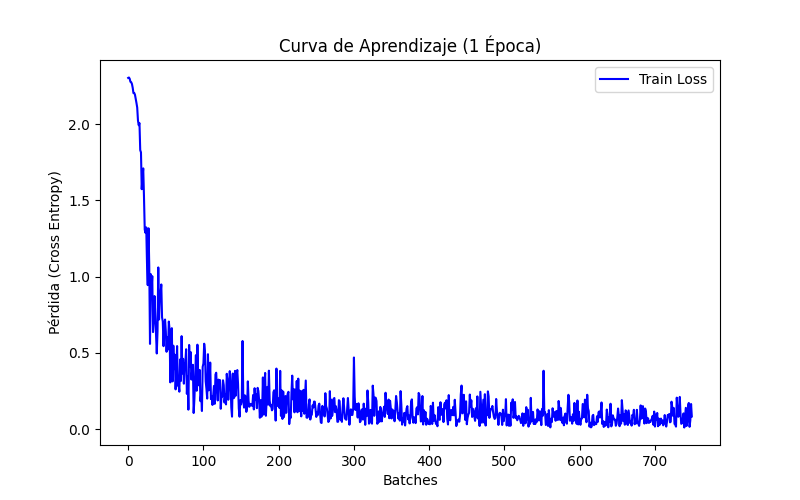
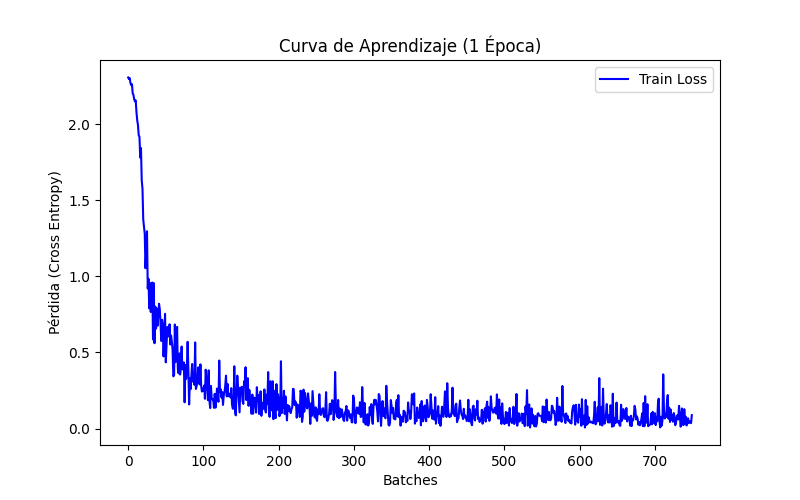
Rename saved plot files for consistency and clarity in asset directory

diff --git a/entrega-3/2-src-protocols/01-http-json/master.py b/entrega-3/2-src-protocols/01-http-json/master.py
@@ -121,7 +121,7 @@ def entrenar_y_evaluar_modelo():
     plt.xlabel('Batches')
     plt.ylabel('Pérdida (Cross Entropy)')
     plt.legend()
-    plt.savefig(os.path.join(ASSETS_DIR, 'loss_curve.png')) # Guardado en assets/
+    plt.savefig(os.path.join(ASSETS_DIR, 'loss-curve.png')) # Guardado en assets/
     plt.close()
     
     cm = confusion_matrix(all_labels, all_preds)
@@ -130,7 +130,7 @@ def entrenar_y_evaluar_modelo():
     plt.title('Matriz de Confusión - Validación')
     plt.xlabel('Predicción de la IA')
     plt.ylabel('Valor Real')
-    plt.savefig(os.path.join(ASSETS_DIR, 'matriz_confusion.png')) # Guardado en assets/
+    plt.savefig(os.path.join(ASSETS_DIR, 'matriz-confusion.png')) # Guardado en assets/
     plt.close()
 
     print("\n--- MÉTRICAS DEL MODELO (IA) ---")
@@ -260,7 +260,7 @@ if __name__ == "__main__":
                 ax.axis('off')
                 
             plt.tight_layout()
-            plt.savefig(os.path.join(ASSETS_DIR, '10_ejemplos_predicciones.png'), bbox_inches='tight')
+            plt.savefig(os.path.join(ASSETS_DIR, 'ejemplos-predicciones-http.png'), bbox_inches='tight')
             plt.close()
             print(f"\n-> Mosaico '10_ejemplos_predicciones.png' generado con imágenes aleatorias.")
         except Exception as e:
